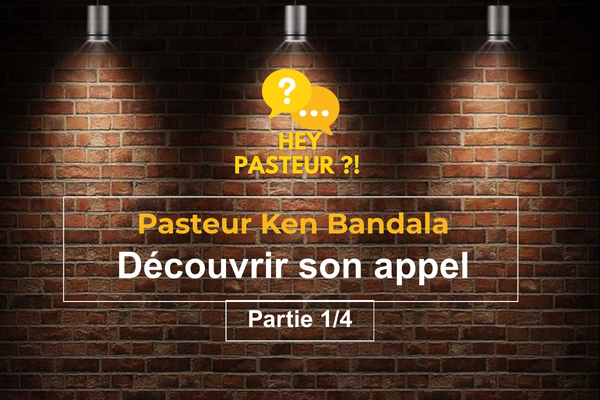
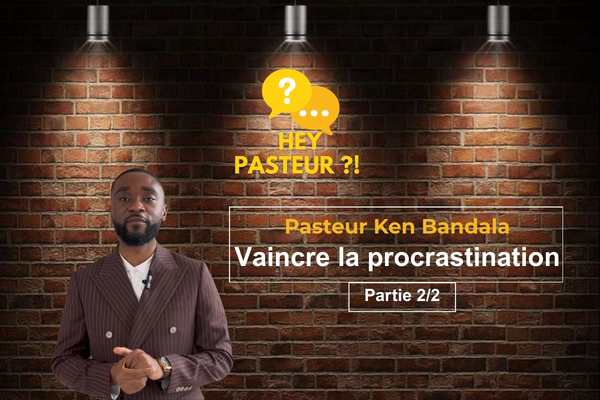
mise à niveau du site

Changed region(s): [[0.09, 0.42, 0.96, 1.0]]

diff --git a/assets/css/custom.css b/assets/css/custom.css
@@ -10,7 +10,7 @@
   #hero.ltb-hero {
     width: 100%;
     height: calc(50vh - 72px);
-    background: url(../img/ltb_hero-bg.png) center center;
+    background: url(../img/banniere_ltp.jpg) center center;
     background-size: cover;
     position: relative;
     margin-top: 72px;
@@ -20,7 +20,7 @@
   #hero.hp-hero {
     width: 100%;
     height: calc(50vh - 72px);
-    background: url(../img/hp_hero-bg.png) center center;
+    background: url(../img/banniere_hp.jpg) center center;
     background-size: cover;
     position: relative;
     margin-top: 72px;
@@ -36,10 +36,10 @@
   }
 }
 #hero.ltb-hero {
-  background: url(../img/ltb_hero-bg.png) center center;
+  background: url(../img/banniere_ltb.jpg) center center;
 }
 #hero.hp-hero {
-  background: url(../img/hp_hero-bg.png) center center;
+  background: url(../img/banniere_hp.jpg) center center;
 }
 
 /* ====== Modal Flottant pour Vidéos ====== */
